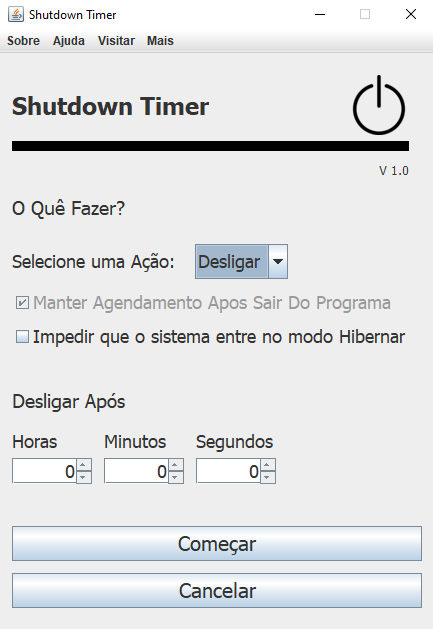
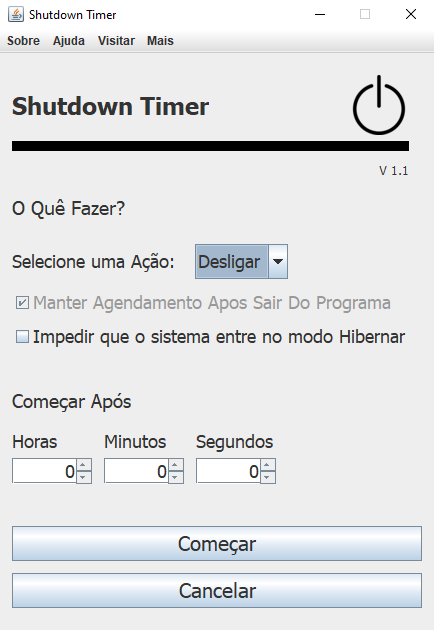
atualizando para versão 1.1

diff --git a/src/classes/Frame.java b/src/classes/Frame.java
@@ -1,6 +1,5 @@
 package classes;
 
-import java.awt.Toolkit;
 import java.io.IOException;
 import javax.swing.JOptionPane;
 
@@ -67,7 +66,7 @@ public class Frame extends javax.swing.JFrame {
         );
 
         jLabel3.setFont(new java.awt.Font("Tahoma", 0, 12)); // NOI18N
-        jLabel3.setText("V 1.0");
+        jLabel3.setText("V 1.1");
 
         jLabel4.setFont(new java.awt.Font("Tahoma", 0, 19)); // NOI18N
         jLabel4.setText("O Quê Fazer?");
@@ -92,7 +91,7 @@ public class Frame extends javax.swing.JFrame {
         CbMaintainSchedule.setEnabled(false);
 
         jLabel6.setFont(new java.awt.Font("Tahoma", 0, 19)); // NOI18N
-        jLabel6.setText("Desligar Após");
+        jLabel6.setText("Começar Após");
 
         SpinnerHour.setFont(new java.awt.Font("Tahoma", 0, 18)); // NOI18N
         SpinnerHour.setModel(new javax.swing.SpinnerNumberModel(0, 0, 100, 1));
